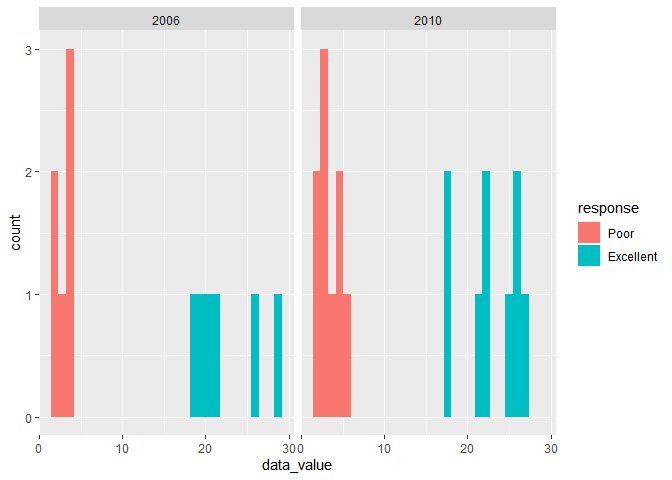
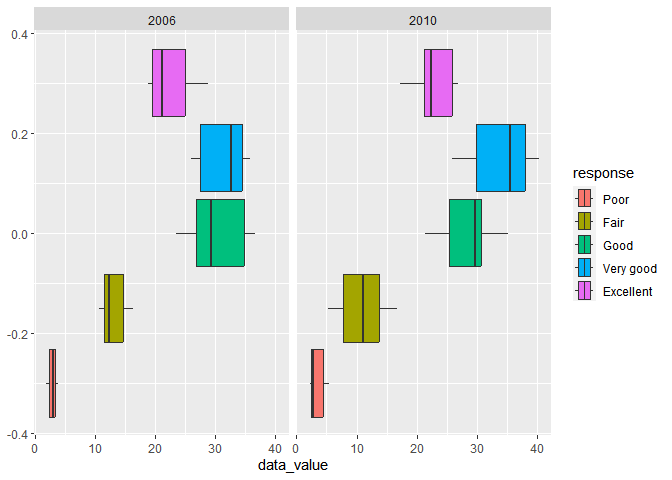
finished all of the code, now going through and adding any comments about results and making sure code is readable

diff --git a/p8105_hw3_msk2265.md b/p8105_hw3_msk2265.md
@@ -15,11 +15,11 @@ Mirah
 ``` r
 #cleaning data
 
-order_vector = c("Poor", "Excellent") #making order for factor variable
+order_vector = c("Poor", "Fair", "Good", "Very good", "Excellent") #making order for factor variable
 
 brfss_df = brfss_smart2010 %>%
   janitor::clean_names() %>% 
-  filter(topic== "Overall Health", response == "Poor" | response == "Excellent") %>% 
+  filter(topic== "Overall Health") %>% 
   mutate(response = factor(response, levels = order_vector))
   #I can remove several columns to make the data cleaner, but that is not in the instructions so I am not sure if I should be doing that
 ```
@@ -98,11 +98,9 @@ brfss_ny = brfss_df %>%
   filter(locationabbr == "NY", year == 2006 | year == 2010)
 
 ggplot(brfss_ny, aes(x=data_value, fill = response)) + 
-  geom_histogram() +
+  geom_boxplot() +
   facet_grid(. ~ year)
 ```
-
-    ## `stat_bin()` using `bins = 30`. Pick better value with `binwidth`.
 
 ![](p8105_hw3_msk2265_files/figure-gfm/unnamed-chunk-4-1.png)<!-- -->
 
@@ -239,8 +237,20 @@ ggplot(nhanes_df, aes(x = age, y = activity, color = sex)) +
 
 ![](p8105_hw3_msk2265_files/figure-gfm/unnamed-chunk-8-1.png)<!-- -->
 
-Accelerometer data allows the inspection activity over the course of the
-day. Make a three-panel plot that shows the 24-hour activity time
+**Accelerometer data allows the inspection activity over the course of
+the day. Make a three-panel plot that shows the 24-hour activity time
 courses for each education level and use color to indicate sex. Describe
 in words any patterns or conclusions you can make based on this graph;
-including smooth trends may help identify differences.
+including smooth trends may help identify differences.**\*
+
+``` r
+ggplot(nhanes_long_df, aes(x=minutes, y=MIM, color=sex)) +
+  geom_smooth(se= FALSE)+
+  facet_grid(.~ education) #originally added geom_point to this but I could not read the graphs as well and it was harder to see the differences between male and female
+```
+
+    ## `geom_smooth()` using method = 'gam' and formula = 'y ~ s(x, bs = "cs")'
+
+    ## Warning: Removed 4786 rows containing non-finite values (`stat_smooth()`).
+
+![](p8105_hw3_msk2265_files/figure-gfm/unnamed-chunk-9-1.png)<!-- -->
